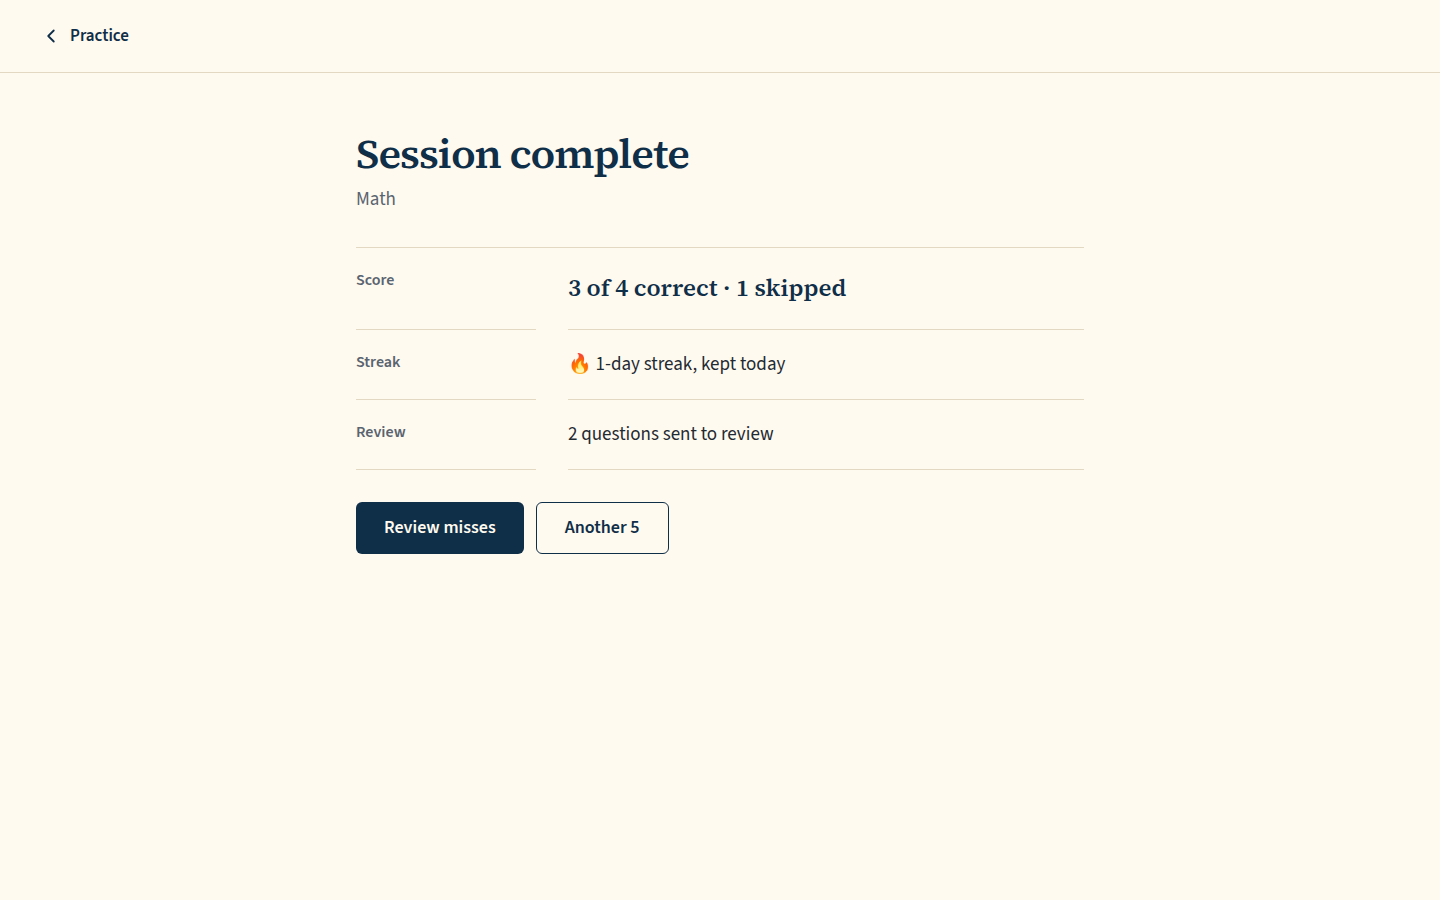
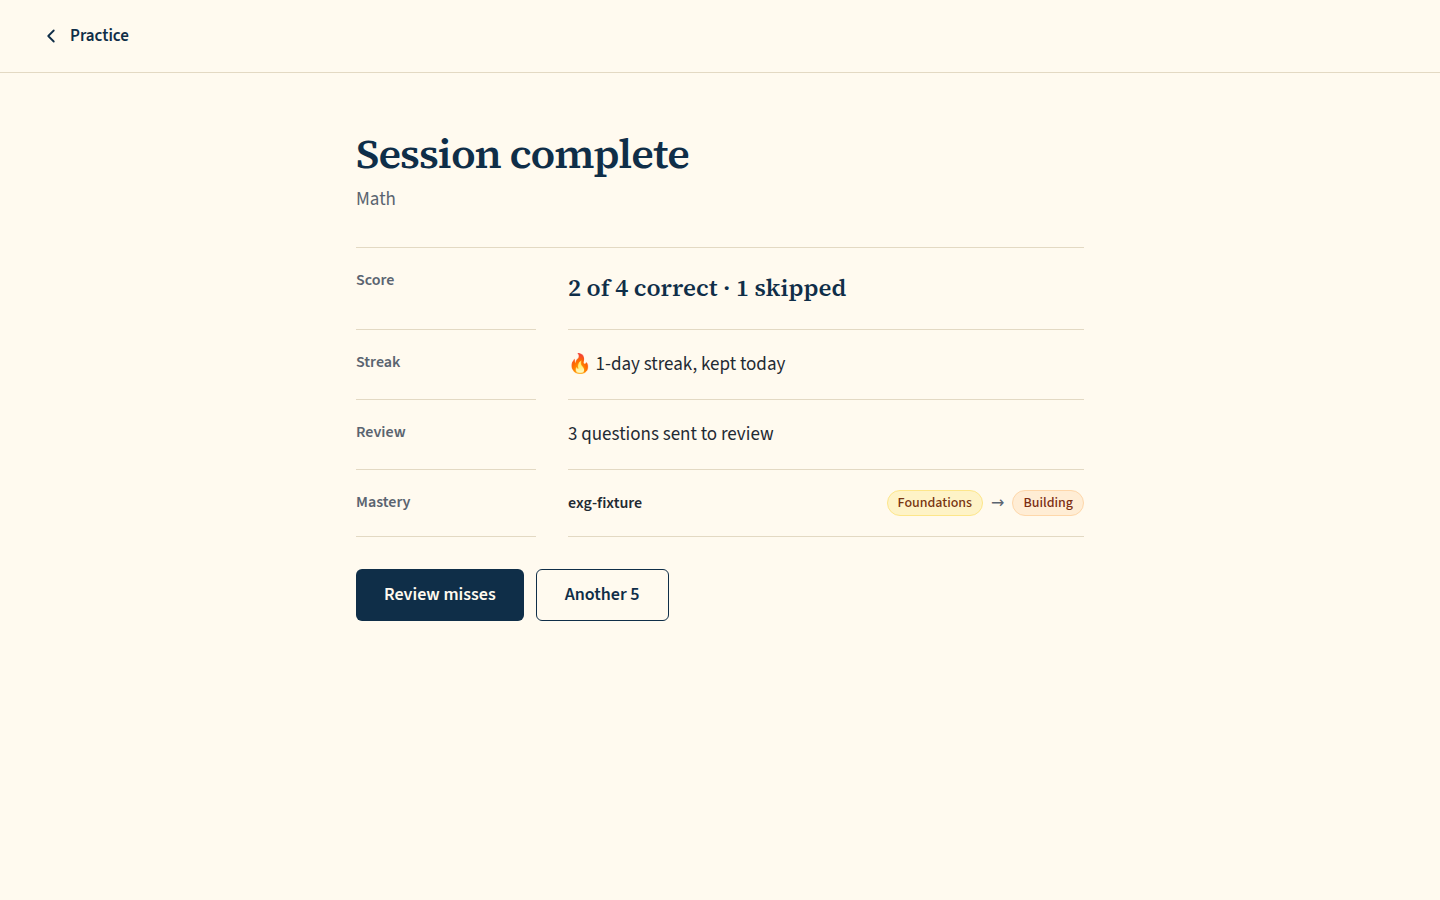
docs(student-ui): FIRST-RUN screenshots (light and dark, 1440 and 390)
Claude-Session: https://claude.ai/code/session_01DzryTvDS5m7fLVPUjsQYgR

Changed region(s): [[0.25, 0.5289, 0.4688, 0.7156], [0.5938, 0.5289, 0.75, 0.5911]]

diff --git a/docs/plans/student-ui/evidence/wave5/FIRST-RUN/index.md b/docs/plans/student-ui/evidence/wave5/FIRST-RUN/index.md
@@ -1,0 +1,148 @@
+# First-run activation fixes: session summaries, Home, in-shell error screen, QOTD prompt, sign-in (light and dark, 1440 and 390)
+
+Generated 2026-10-13T09:01:37.375Z by `pnpm exec tsx tests/e2e/student-harness/capture.ts FIRST-RUN` (see `tests/e2e/student-harness/README.md`). Built = a production build of the real client (`vite preview`, or the dev server with STUDENT_HARNESS_CLIENT=dev) against the student harness (real routers over a local Postgres built from this repo's migrations; personas seeded through the real practice routes). Prototype = the signed-off `docs/plans/student-ui/design/prototype/*.dc.html`, rendered locally.
+
+Conditions, read before comparing:
+- Viewport screenshots (not full page) unless the shot says full page: desktop 1440x900, phone 390x844, and any extra size a shot names.
+- The prototypes are a fixed 1440x900 canvas with no phone layout; phone rows show the desktop prototype.
+- Dark is requested through the app's own per-device setting; the theme column records what the page rendered.
+- No external requests: the built app's Google Fonts (Inter, Poppins) are blocked, so legacy page bodies fall back to system faces; Source Sans 3 / Source Serif 4 are self-hosted and load for both sides.
+- Prototype data is illustrative; built data is the seeded personas' real payloads.
+
+## Practice session summary: score with skips, streak kept, sent to review, the recorded mastery change if any; Review misses (primary) and Another 5
+
+Persona: `paid`. Route: `/practice/session/{session}`.
+Fresh session per capture (real create route, ended after the shot): `practice {"sections":["M"],"target_question_count":5}`.
+Full page: the whole document, not just the viewport.
+Prototype: none. NOT PROTOTYPED: new in the first-run activation brief (Karl, 2026-10-13), built to DESIGN.md §5; these screenshots go to Karl before merge.
+
+| Viewport | Theme (as rendered) | Built | Prototype |
+|---|---|---|---|
+| desktop | light | ![summary-practice desktop light](summary-practice--desktop--light--built.png)<br>`/practice/session/8595db7f-2d4d-4f0b-82e1-ecb16eecf963`, 43 KB, horizontal overflow 0px | none |
+| desktop | dark | ![summary-practice desktop dark](summary-practice--desktop--dark--built.png)<br>`/practice/session/dc9a245a-9478-4c6c-92e9-7fd010f55d6a`, 37 KB, horizontal overflow 0px | none |
+| mobile | light | ![summary-practice mobile light](summary-practice--mobile--light--built.png)<br>`/practice/session/584ea59a-3a67-4bb7-8a4e-3aea05232701`, 30 KB, horizontal overflow 0px | none |
+| mobile | dark | ![summary-practice mobile dark](summary-practice--mobile--dark--built.png)<br>`/practice/session/14dfc1da-cb12-4d57-af5e-89456b5f523f`, 37 KB, horizontal overflow 0px | none |
+
+## Review session summary: the same pattern ('back in your review queue')
+
+Persona: `paid`. Route: `/review/session/{session}`.
+Fresh session per capture (real create route, ended after the shot): `review {"mode":"filter","filters":{"sections":["RW"]},"target_count":3}`.
+Full page: the whole document, not just the viewport.
+Prototype: none. NOT PROTOTYPED: new in the first-run activation brief (Karl, 2026-10-13), built to DESIGN.md §5; these screenshots go to Karl before merge.
+
+| Viewport | Theme (as rendered) | Built | Prototype |
+|---|---|---|---|
+| desktop | light | ![summary-review desktop light](summary-review--desktop--light--built.png)<br>`/review/session/5fb8763c-2c79-4e24-8f63-22087c54a7d8`, 44 KB, horizontal overflow 0px | none |
+| desktop | dark | ![summary-review desktop dark](summary-review--desktop--dark--built.png)<br>`/review/session/5fac1b3e-619c-4036-992d-1069279de1dc`, 45 KB, horizontal overflow 0px | none |
+| mobile | light | ![summary-review mobile light](summary-review--mobile--light--built.png)<br>`/review/session/3abe0d9d-d44d-44a4-bfde-11173c3f103c`, 37 KB, horizontal overflow 0px | none |
+| mobile | dark | ![summary-review mobile dark](summary-review--mobile--dark--built.png)<br>`/review/session/b0a5d6e2-b659-401c-99c6-d15234f7a943`, 37 KB, horizontal overflow 0px | none |
+
+## Home, paid: the QOTD card in place, today's plan rows as text links ('Start today's plan' the one filled button), 'This week' ticks
+
+Persona: `paid`. Route: `/dashboard`.
+Today's question unanswered before each capture (scheduled if missing; the persona's answer, qotd session and email-prompt state deleted).
+Full page: the whole document, not just the viewport.
+Prototype: none. NOT PROTOTYPED: new in the first-run activation brief (Karl, 2026-10-13), built to DESIGN.md §5; these screenshots go to Karl before merge.
+
+| Viewport | Theme (as rendered) | Built | Prototype |
+|---|---|---|---|
+| desktop | light | ![home-paid desktop light](home-paid--desktop--light--built.png)<br>`/dashboard`, 131 KB, horizontal overflow 0px | none |
+| desktop | dark | ![home-paid desktop dark](home-paid--desktop--dark--built.png)<br>`/dashboard`, 132 KB, horizontal overflow 0px | none |
+| mobile | light | ![home-paid mobile light](home-paid--mobile--light--built.png)<br>`/dashboard`, 249 KB, horizontal overflow 0px | none |
+| mobile | dark | ![home-paid mobile dark](home-paid--mobile--dark--built.png)<br>`/dashboard`, 254 KB, horizontal overflow 0px | none |
+
+## Home, paid, scrolled to today's plan (the first row's link focused): each row acts through a text link, 'Start today's plan' the one filled button
+
+Persona: `paid`. Route: `/dashboard`.
+Step: focus `{"desktop":"[data-testid=\"home-plan-start\"]","mobile":"[data-testid=\"home-plan-start\"]"}` (no typing).
+Must then show `[data-testid="home-start-plan"]` (the capture fails otherwise).
+Prototype: none. NOT PROTOTYPED: new in the first-run activation brief (Karl, 2026-10-13), built to DESIGN.md §5; these screenshots go to Karl before merge.
+
+| Viewport | Theme (as rendered) | Built | Prototype |
+|---|---|---|---|
+| desktop | light | ![home-paid-plan desktop light](home-paid-plan--desktop--light--built.png)<br>`/dashboard`, 132 KB, horizontal overflow 0px | none |
+| desktop | dark | ![home-paid-plan desktop dark](home-paid-plan--desktop--dark--built.png)<br>`/dashboard`, 132 KB, horizontal overflow 0px | none |
+| mobile | light | ![home-paid-plan mobile light](home-paid-plan--mobile--light--built.png)<br>`/dashboard`, 48 KB, horizontal overflow 0px | none |
+| mobile | dark | ![home-paid-plan mobile dark](home-paid-plan--mobile--dark--built.png)<br>`/dashboard`, 48 KB, horizontal overflow 0px | none |
+
+## Home, paid, at the review cap: the notice's 'Continue your open session' wraps inside the panel
+
+Persona: `paid`. Route: `/dashboard`.
+At the review-session cap before each capture: queue review sessions are opened through the real `POST /api/review/sessions` until the server itself refuses one with `SESSION_LIMIT_EXCEEDED`; the ones opened are ended through the real terminate route after the shot.
+Must then show `[data-testid="review-cap"]` wholly inside the viewport (the capture fails otherwise).
+Step: click `{"desktop":"[data-testid=\"home-recent-review\"]","mobile":"[data-testid=\"home-recent-review\"]"}`.
+Prototype: none. NOT PROTOTYPED: new in the first-run activation brief (Karl, 2026-10-13), built to DESIGN.md §5; these screenshots go to Karl before merge.
+
+| Viewport | Theme (as rendered) | Built | Prototype |
+|---|---|---|---|
+| desktop | light | ![home-review-cap desktop light](home-review-cap--desktop--light--built.png)<br>`/dashboard`, 126 KB, horizontal overflow 0px | none |
+| desktop | dark | ![home-review-cap desktop dark](home-review-cap--desktop--dark--built.png)<br>`/dashboard`, 128 KB, horizontal overflow 0px | none |
+| mobile | light | ![home-review-cap mobile light](home-review-cap--mobile--light--built.png)<br>`/dashboard`, 58 KB, horizontal overflow 0px | none |
+| mobile | dark | ![home-review-cap mobile dark](home-review-cap--mobile--dark--built.png)<br>`/dashboard`, 59 KB, horizontal overflow 0px | none |
+
+## A page's code chunk fails twice: one automatic reload, then the error screen inside the App shell (rail; tab bar on a phone)
+
+Persona: `paid`. Route: `/mastery`.
+Failed in the browser: requests whose path matches `^/assets/mastery-[^/]+\.js$` get a network error and never reach the server. The Mastery page's lazy chunk fails to load, as after a deploy replaces it; the first failure reloads once, the second shows the in-shell error screen.
+Prototype: none. NOT PROTOTYPED: new in the first-run activation brief (Karl, 2026-10-13), built to DESIGN.md §5; these screenshots go to Karl before merge.
+
+| Viewport | Theme (as rendered) | Built | Prototype |
+|---|---|---|---|
+| desktop | light | ![route-error-in-shell desktop light](route-error-in-shell--desktop--light--built.png)<br>`/mastery`, 41 KB, horizontal overflow 0px | none |
+| desktop | dark | ![route-error-in-shell desktop dark](route-error-in-shell--desktop--dark--built.png)<br>`/mastery`, 41 KB, horizontal overflow 0px | none |
+| mobile | light | ![route-error-in-shell mobile light](route-error-in-shell--mobile--light--built.png)<br>`/mastery`, 30 KB, horizontal overflow 0px | none |
+| mobile | dark | ![route-error-in-shell mobile dark](route-error-in-shell--mobile--dark--built.png)<br>`/mastery`, 29 KB, horizontal overflow 0px | none |
+
+## QOTD answered: the explanation with Done, and no email prompt over it
+
+Persona: `paid`. Route: `/dashboard`.
+Today's question unanswered before each capture (scheduled if missing; the persona's answer, qotd session and email-prompt state deleted).
+Step: click `{"desktop":"[data-testid=\"home-qotd\"] [data-testid=\"runner-choice\"]","mobile":"[data-testid=\"home-qotd\"] [data-testid=\"runner-choice\"]"}`.
+Step: click `{"desktop":"[data-testid=\"home-qotd-submit\"]","mobile":"[data-testid=\"home-qotd-submit\"]"}`.
+Must then show `[data-testid="home-qotd-done"]` (the capture fails otherwise).
+Must then show no `[data-testid="qotd-email-prompt"]` (the capture fails otherwise).
+Prototype: none. NOT PROTOTYPED: new in the first-run activation brief (Karl, 2026-10-13), built to DESIGN.md §5; these screenshots go to Karl before merge.
+
+| Viewport | Theme (as rendered) | Built | Prototype |
+|---|---|---|---|
+| desktop | light | ![qotd-explanation-first desktop light](qotd-explanation-first--desktop--light--built.png)<br>`/dashboard`, 133 KB, horizontal overflow 0px | none |
+| desktop | dark | ![qotd-explanation-first desktop dark](qotd-explanation-first--desktop--dark--built.png)<br>`/dashboard`, 134 KB, horizontal overflow 0px | none |
+| mobile | light | ![qotd-explanation-first mobile light](qotd-explanation-first--mobile--light--built.png)<br>`/dashboard`, 36 KB, horizontal overflow 0px | none |
+| mobile | dark | ![qotd-explanation-first mobile dark](qotd-explanation-first--mobile--dark--built.png)<br>`/dashboard`, 36 KB, horizontal overflow 0px | none |
+
+## QOTD: Done closes the explanation, then the email prompt opens
+
+Persona: `paid`. Route: `/dashboard`.
+Today's question unanswered before each capture (scheduled if missing; the persona's answer, qotd session and email-prompt state deleted).
+Step: click `{"desktop":"[data-testid=\"home-qotd\"] [data-testid=\"runner-choice\"]","mobile":"[data-testid=\"home-qotd\"] [data-testid=\"runner-choice\"]"}`.
+Step: click `{"desktop":"[data-testid=\"home-qotd-submit\"]","mobile":"[data-testid=\"home-qotd-submit\"]"}`.
+Step: click `{"desktop":"[data-testid=\"home-qotd-done\"]","mobile":"[data-testid=\"home-qotd-done\"]"}`.
+Must then show the text `Keep your streak alive 🔥` (the capture fails otherwise).
+Prototype: none. NOT PROTOTYPED: new in the first-run activation brief (Karl, 2026-10-13), built to DESIGN.md §5; these screenshots go to Karl before merge.
+
+| Viewport | Theme (as rendered) | Built | Prototype |
+|---|---|---|---|
+| desktop | light | ![qotd-prompt-after-done desktop light](qotd-prompt-after-done--desktop--light--built.png)<br>`/dashboard`, 158 KB, horizontal overflow 0px | none |
+| desktop | dark | ![qotd-prompt-after-done desktop dark](qotd-prompt-after-done--desktop--dark--built.png)<br>`/dashboard`, 154 KB, horizontal overflow 0px | none |
+| mobile | light | ![qotd-prompt-after-done mobile light](qotd-prompt-after-done--mobile--light--built.png)<br>`/dashboard`, 54 KB, horizontal overflow 0px | none |
+| mobile | dark | ![qotd-prompt-after-done mobile dark](qotd-prompt-after-done--mobile--dark--built.png)<br>`/dashboard`, 53 KB, horizontal overflow 0px | none |
+
+## Sign in: the Lyceon logo (a link to /) and the 'Password' placeholder
+
+Persona: `signed-out`. Route: `/login`.
+Cookie banner already answered (the real `lyceon_consent` cookie, analytics rejected, current banner version).
+Prototype: none. NOT PROTOTYPED: new in the first-run activation brief (Karl, 2026-10-13), built to DESIGN.md §5; these screenshots go to Karl before merge.
+
+| Viewport | Theme (as rendered) | Built | Prototype |
+|---|---|---|---|
+| desktop | light | ![sign-in desktop light](sign-in--desktop--light--built.png)<br>`/login`, 43 KB, horizontal overflow 0px | none |
+| desktop | dark | ![sign-in desktop dark](sign-in--desktop--dark--built.png)<br>`/login`, 43 KB, horizontal overflow 0px | none |
+| mobile | light | ![sign-in mobile light](sign-in--mobile--light--built.png)<br>`/login`, 37 KB, horizontal overflow 0px | none |
+| mobile | dark | ![sign-in mobile dark](sign-in--mobile--dark--built.png)<br>`/login`, 38 KB, horizontal overflow 0px | none |
+
+## Run facts
+
+- Seeded ids: `{"free":{"completedPracticeSessionId":"1b3b16cd-3461-4731-9723-7a7af2fc5fcd","openPracticeSessionId":"3fc48003-4fb5-47f3-9aaf-4e6a9bfe93ef","openReviewSessionId":"21470d4d-2903-4573-abc2-b1c602346ddf","diagnosticSessionId":null,"scoredExamSessionId":null,"inProgressExamSessionId":null,"lisaConversationId":null,"answered":39},"paid":{"completedPracticeSessionId":"41324c45-1cc7-43e0-b992-034c13fbe429","openPracticeSessionId":"061d9292-25c8-4c65-8c45-808bd41c7b5a","openReviewSessionId":"d10f2b3c-c1ea-46f5-add6-4f2f7f5ead0d","diagnosticSessionId":"554ac3e0-0741-429a-82d8-ba0eeee277d9","scoredExamSessionId":null,"inProgressExamSessionId":null,"lisaConversationId":null,"answered":79}}`
+- Endpoints the pages asked for that the harness does not serve (answered 404): none
+- Desmos (QA2-B, opt-in `STUDENT_HARNESS_DESMOS=1`): not loaded (a local-only run; the calculator shows its unavailable line)
+- External hosts blocked: none

diff --git a/docs/plans/student-ui/evidence/wave5/FIRST-RUN-ONBOARDING/index.md b/docs/plans/student-ui/evidence/wave5/FIRST-RUN-ONBOARDING/index.md
@@ -1,0 +1,46 @@
+# First-run activation fixes: onboarding's empty date of birth, and the SAT-date picker's helper line and Done (light and dark, 1440 and 390)
+
+Generated 2026-10-13T09:02:24.907Z by `pnpm exec tsx tests/e2e/student-harness/capture.ts FIRST-RUN-ONBOARDING` (see `tests/e2e/student-harness/README.md`). Built = a production build of the real client (`vite preview`, or the dev server with STUDENT_HARNESS_CLIENT=dev) against the student harness (real routers over a local Postgres built from this repo's migrations; personas seeded through the real practice routes). Prototype = the signed-off `docs/plans/student-ui/design/prototype/*.dc.html`, rendered locally.
+
+Conditions, read before comparing:
+- Viewport screenshots (not full page) unless the shot says full page: desktop 1440x900, phone 390x844, and any extra size a shot names.
+- The prototypes are a fixed 1440x900 canvas with no phone layout; phone rows show the desktop prototype.
+- Dark is requested through the app's own per-device setting; the theme column records what the page rendered.
+- No external requests: the built app's Google Fonts (Inter, Poppins) are blocked, so legacy page bodies fall back to system faces; Source Sans 3 / Source Serif 4 are self-hosted and load for both sides.
+- Prototype data is illustrative; built data is the seeded personas' real payloads.
+
+## Onboarding: the date of birth starts empty; no SAT question until a date is entered
+
+Persona: `onboarding`. Route: `/profile/complete`.
+Must then show no `[data-testid="onboarding-sat-dates"]` (the capture fails otherwise).
+Full page: the whole document, not just the viewport.
+Prototype: none. NOT PROTOTYPED: new in the first-run activation brief (Karl, 2026-10-13), built to DESIGN.md §5; these screenshots go to Karl before merge.
+
+| Viewport | Theme (as rendered) | Built | Prototype |
+|---|---|---|---|
+| desktop | light | ![onboarding-dob-empty desktop light](onboarding-dob-empty--desktop--light--built.png)<br>`/profile/complete`, 29 KB, horizontal overflow 0px | none |
+| desktop | dark | ![onboarding-dob-empty desktop dark](onboarding-dob-empty--desktop--dark--built.png)<br>`/profile/complete`, 30 KB, horizontal overflow 0px | none |
+| mobile | light | ![onboarding-dob-empty mobile light](onboarding-dob-empty--mobile--light--built.png)<br>`/profile/complete`, 25 KB, horizontal overflow 0px | none |
+| mobile | dark | ![onboarding-dob-empty mobile dark](onboarding-dob-empty--mobile--dark--built.png)<br>`/profile/complete`, 26 KB, horizontal overflow 0px | none |
+
+## Onboarding, a 13+ date entered: 'When's your SAT?' with 'Pick every date you might take', the menu open, Done on screen
+
+Persona: `onboarding`. Route: `/profile/complete`.
+Must then show `[data-testid="onboarding-sat-dates-done"]` wholly inside the viewport (the capture fails otherwise).
+Step: type `2009-05-01` into `{"desktop":"[data-testid=\"input-date-of-birth\"]","mobile":"[data-testid=\"input-date-of-birth\"]"}`.
+Step: click `{"desktop":"[data-testid=\"onboarding-sat-dates-trigger\"]","mobile":"[data-testid=\"onboarding-sat-dates-trigger\"]"}`.
+Prototype: none. NOT PROTOTYPED: new in the first-run activation brief (Karl, 2026-10-13), built to DESIGN.md §5; these screenshots go to Karl before merge.
+
+| Viewport | Theme (as rendered) | Built | Prototype |
+|---|---|---|---|
+| desktop | light | ![onboarding-sat-picker-open desktop light](onboarding-sat-picker-open--desktop--light--built.png)<br>`/profile/complete`, 44 KB, horizontal overflow 0px | none |
+| desktop | dark | ![onboarding-sat-picker-open desktop dark](onboarding-sat-picker-open--desktop--dark--built.png)<br>`/profile/complete`, 45 KB, horizontal overflow 0px | none |
+| mobile | light | ![onboarding-sat-picker-open mobile light](onboarding-sat-picker-open--mobile--light--built.png)<br>`/profile/complete`, 38 KB, horizontal overflow 0px | none |
+| mobile | dark | ![onboarding-sat-picker-open mobile dark](onboarding-sat-picker-open--mobile--dark--built.png)<br>`/profile/complete`, 39 KB, horizontal overflow 0px | none |
+
+## Run facts
+
+- Seeded ids: `{"free":{"completedPracticeSessionId":"1c27ae20-8f55-4eb0-88f1-956b7300d4e7","openPracticeSessionId":"482b93b3-f3b0-4d32-8891-740cf4a07264","openReviewSessionId":null,"diagnosticSessionId":null,"scoredExamSessionId":null,"inProgressExamSessionId":null,"lisaConversationId":null,"answered":13},"paid":{"completedPracticeSessionId":"08d4de9d-6421-4421-94ce-abef0160943d","openPracticeSessionId":"7078b65b-a694-4f75-b8dd-419fcd587e0e","openReviewSessionId":null,"diagnosticSessionId":"16f87c58-fe91-4810-b04a-34e1e0f4c2c8","scoredExamSessionId":null,"inProgressExamSessionId":null,"lisaConversationId":null,"answered":53}}`
+- Endpoints the pages asked for that the harness does not serve (answered 404): none
+- Desmos (QA2-B, opt-in `STUDENT_HARNESS_DESMOS=1`): not loaded (a local-only run; the calculator shows its unavailable line)
+- External hosts blocked: none
